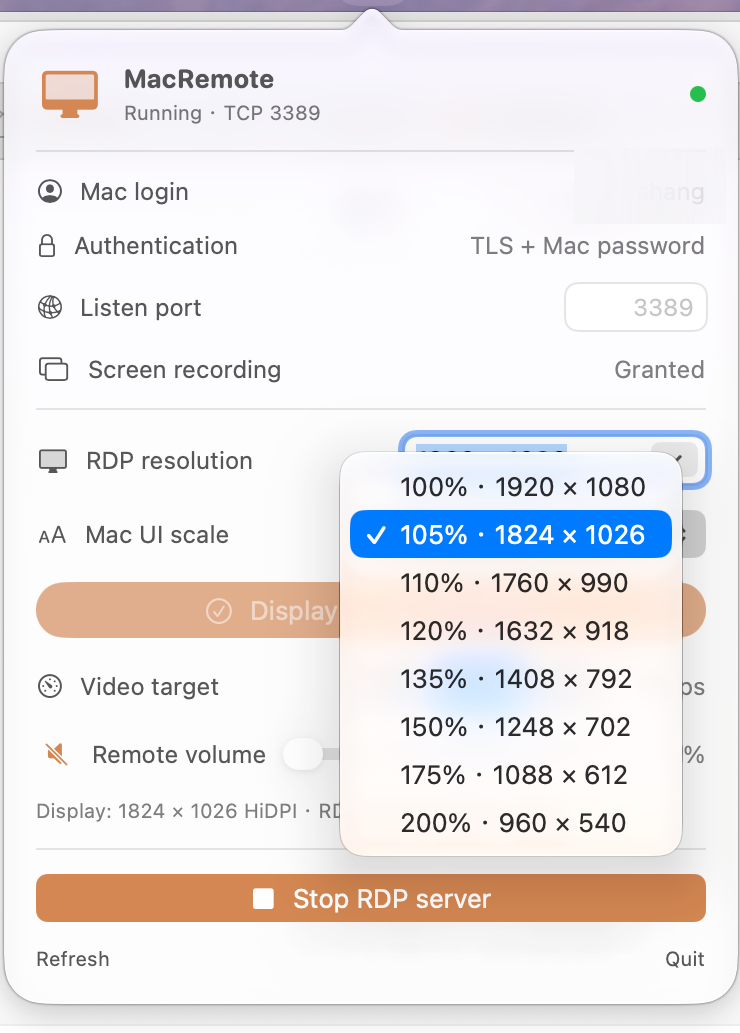
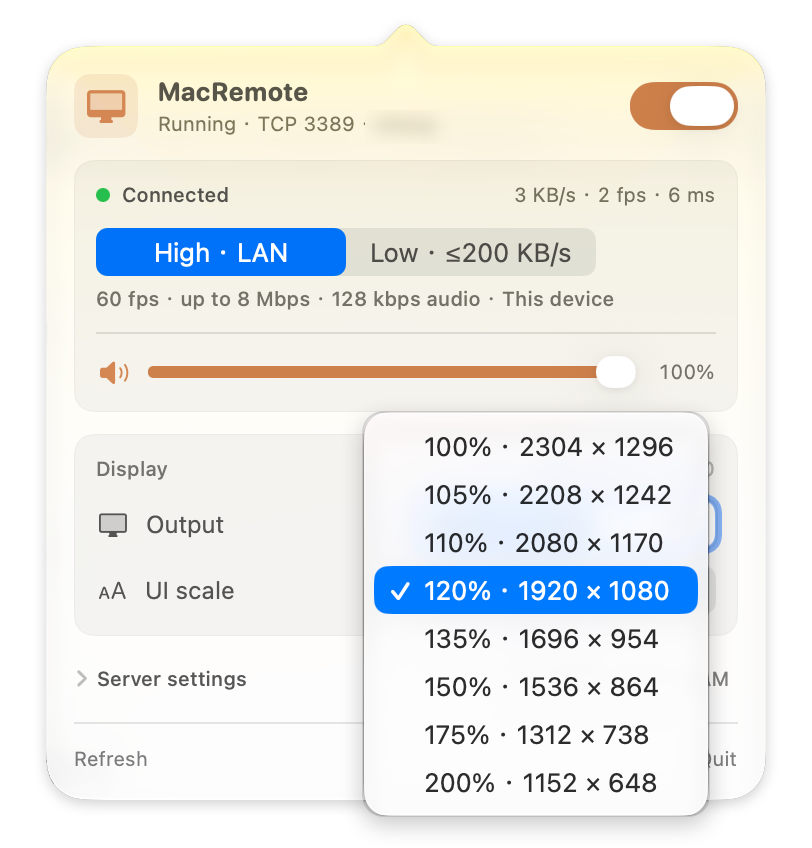
docs: update README and live v0.3.0 menu bar screenshots

diff --git a/README.md b/README.md
@@ -23,9 +23,9 @@
 </p>
 
 <p align="center">
-  <a href="docs/assets/macremote-settings.png"><img src="docs/assets/macremote-settings.png" width="420" alt="Actual MacRemote menu bar app showing RDP output, HiDPI scaling, H.264 target bitrate and remote audio controls"></a>
+  <a href="docs/assets/macremote-settings.png"><img src="docs/assets/macremote-settings.png" width="380" alt="Actual MacRemote menu bar app showing live session telemetry, High/Low bandwidth modes, remote audio, RDP output and HiDPI scaling"></a>
 </p>
-<p align="center"><sub>Real macOS menu bar interface · Personal account details blurred</sub></p>
+<p align="center"><sub>Real macOS menu bar interface · Live LAN session · Personal account details blurred</sub></p>
 
 ## Why MacRemote?
 
@@ -53,7 +53,7 @@ Windows already has an excellent RDP client. MacRemote gives your **existing, lo
 
 For diagnostics when mstsc does not prompt, use python3 tools/make-mstsc-profile.py --host MAC_IP --output MacRemote.rdp. This is not a guaranteed fix: cached credentials and policy can bypass prompting, and unsigned RDP files show an extra Windows security warning since April 2026. A zero-setup server-side solution is being evaluated (docs/qa/2026-11-19-mstsc-credential-prompt.md).
 
-These preview packages use **fixed self-signed release certificate (Ahang Open Source Release Signing)** and are **not notarized**. If macOS blocks the first launch, use **System Settings → Privacy & Security → Open Anyway**. Connect over a trusted private network or VPN; don't expose TCP 3389 directly to the Internet.
+These preview packages use a **fixed self-signed release certificate (`Ahang Open Source Release Signing`)** and are **not notarized**. If macOS blocks the first launch, use **System Settings → Privacy & Security → Open Anyway**. When upgrading from earlier `v0.2.x` ad-hoc builds, macOS may ask you to remove and re-grant **Screen & System Audio Recording** (and **Accessibility**) once because the signing identity changed; future updates signed with the same release certificate will keep a consistent identity. Connect over a trusted private network or VPN; don't expose TCP 3389 directly to the Internet.
 
 > [!NOTE]
 > The [v0.3.0-preview.1 release](https://github.com/ahang39/MacRemote/releases/tag/v0.3.0-preview.1) and its source archives are published from the same source revision as the attached DMGs. The older v0.2.0 release tag remains unchanged.
@@ -77,13 +77,22 @@ These preview packages use **fixed self-signed release certificate (Ahang Open S
 MacRemote separates **transport pixels** from **macOS logical desktop pixels**. Pick an RDP output such as 1920 × 1080, then choose **100%, 105%, 110%, 120%, 135%, 150%, 175% or 200%** Mac UI scaling. It reuses matching existing HiDPI modes; a missing mode can be created on demand and loaded after a macOS restart.
 
 <p align="center">
-  <a href="docs/assets/macremote-hidpi-scales.png"><img src="docs/assets/macremote-hidpi-scales.png" width="420" alt="MacRemote's actual 8-level HiDPI scaling menu"></a>
+  <a href="docs/assets/macremote-hidpi-scales.png"><img src="docs/assets/macremote-hidpi-scales.png" width="380" alt="MacRemote's actual 8-level HiDPI scaling menu"></a>
 </p>
-<p align="center"><sub>Eight scaling levels, showing the actual resolved HiDPI sizes</sub></p>
+<p align="center"><sub>Eight non-linear scaling levels, showing the actual resolved HiDPI sizes</sub></p>
 
-### Built with real-client measurements
+### High (LAN) & Low (≤200 KB/s WAN) bandwidth modes
 
-In a controlled Windows `mstsc` test at **2 Mbps downlink + 80 ms added RTT**, switching the AVC420 video target from **4.0 to 1.4 Mbps** reduced the median scrolling downlink volume by **44%** and the first visible scrolling feedback from **3.30 s to 0.99 s**. The measurement used a synthetic scrolling workload; see the [test setup and results](docs/qa/2026-11-17-mstsc-wan.md).
+MacRemote uses a single hardware-accelerated **VideoToolbox H.264/AVC420** pipeline with low-latency SPS VUI signaling (`max_num_reorder_frames=0`, `max_dec_frame_buffering=1`) and two live per-device bandwidth modes—switchable mid-session without disconnecting:
+
+| Mode | Video | Audio (stereo Opus) | Flow control |
+| --- | --- | --- | --- |
+| **High · LAN** *(default)* | Up to **60 fps** · **8.0 Mbps** avg (`DataRateLimits` 1.2×/1 s) | **128 kbps** (16 KB/s) | 6 frames in flight, uncapped pacer |
+| **Low · ≤200 KB/s** | Up to **15 fps** · **1.05 Mbps** avg (`DataRateLimits` 1.2×/1 s) | **48 kbps** (6 KB/s) | **155 KB/s** token-bucket video pacer, 3 frames in flight |
+
+Clients negotiating `<32-bit` color automatically fall back to legacy RDP `BitmapUpdate`. The menu bar displays real 1 Hz server telemetry (outbound KB/s, sent FPS, and RDPGFX frame-ACK RTT). See [ADR-0012](docs/adr/0012-bandwidth-profiles-and-low-latency-h264.md) and the [local hardware VideoToolbox benchmark](docs/qa/2026-11-21-bandwidth-profiles-refactor.md).
+
+In an earlier controlled Windows `mstsc` test at **2 Mbps downlink + 80 ms added RTT**, lowering the AVC420 target from **4.0 to 1.4 Mbps** reduced median scrolling downlink volume by **44%** and first visible scrolling feedback from **3.30 s to 0.99 s** ([test setup and results](docs/qa/2026-11-17-mstsc-wan.md)).
 
 ## Under the hood
 
@@ -91,7 +100,7 @@ In a controlled Windows `mstsc` test at **2 Mbps downlink + 80 ms added RTT**, s
 
 MacRemote combines C/Objective-C server components with an AppKit/SwiftUI menu bar app. It uses existing macOS capture and input APIs, bundles its dependencies, and doesn't require a proprietary protocol or a cloud service.
 
-**Current scope:** the already logged-in macOS desktop. MacRemote verifies the Mac account using TLS + PAM. Accelerated AVC444 remains experimental. Windows `mstsc` behavior, audio negotiation and reconnect edge cases continue to be tested.
+**Current scope:** the already logged-in macOS desktop, verified with macOS TLS + PAM. Standard 32-bit clients stream hardware VideoToolbox H.264/AVC420 while `<32-bit` clients automatically use legacy `BitmapUpdate`. Windows `mstsc` WAN acceptance under 200 KB/s shaping, audio negotiation, and reconnect edge cases continue to be tested.
 
 Read the [architecture](docs/ARCHITECTURE.md), [technical decisions](docs/adr/), [test matrix](docs/TESTING.md), and [release checklist](docs/RELEASE_CHECKLIST.md).
 
